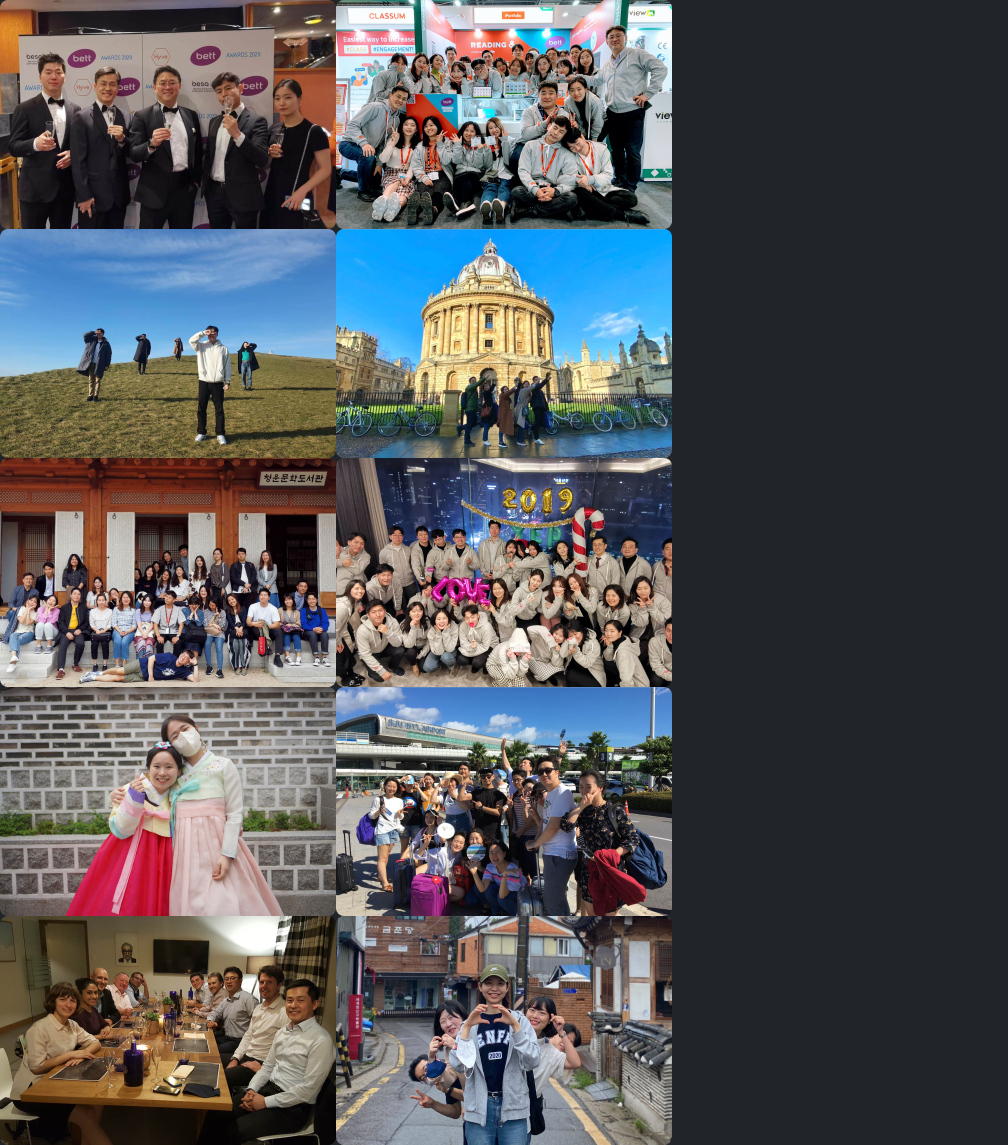
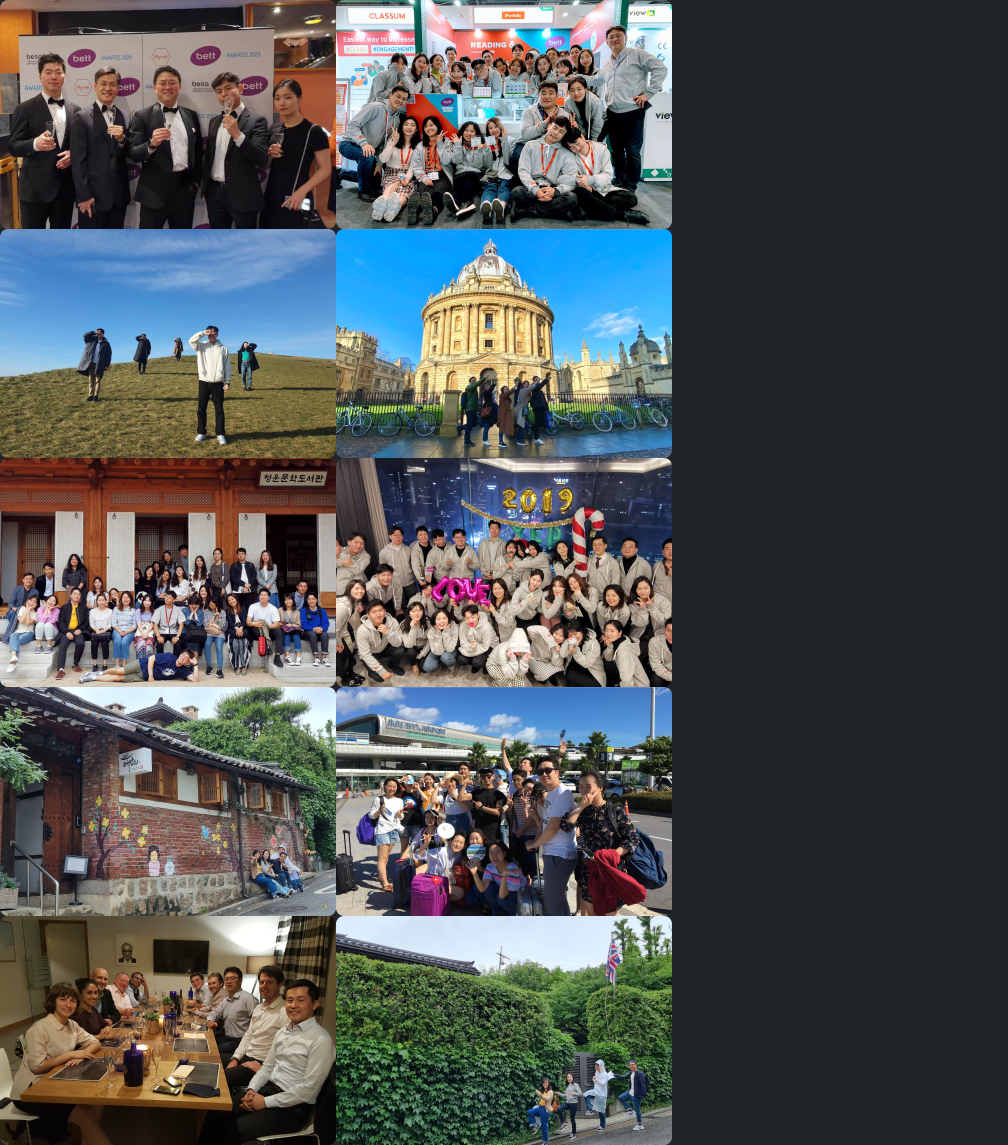
Fix [IPFHOME-73] Home Career 섹션 이미지 변경

Changed region(s): [[0.0, 0.5808, 0.6766, 1.0]]

diff --git a/src/containers/PhotoCarouselHome.tsx b/src/containers/PhotoCarouselHome.tsx
@@ -55,7 +55,7 @@ const PhotoItem = styled.li`
       transform: translateX(calc(-35.2rem * 10));
     }
   }
-  animation: translateinfinite 120s linear infinite;
+  animation: translateinfinite 40s linear infinite;
 `;
 
 function PhotoItems() {
@@ -63,15 +63,15 @@ function PhotoItems() {
 
   for (let i = 0; i < 2; i++) {
     for (let col = 0; col < 2; col++) {
-      for (let row = 0; row < 4; row++) {
-        if (row == 3 && col == 1) {
-          break;
-        }
+      for (let row = 0; row < 5; row++) {
         photoItems.push(
           <PhotoItem key={`career-photo-${i}${row}${col}`}>
             <Photo row={row} col={col} />
           </PhotoItem>,
         );
+        if (row == 4 && col == 1) {
+          break;
+        }
       }
     }
   }
